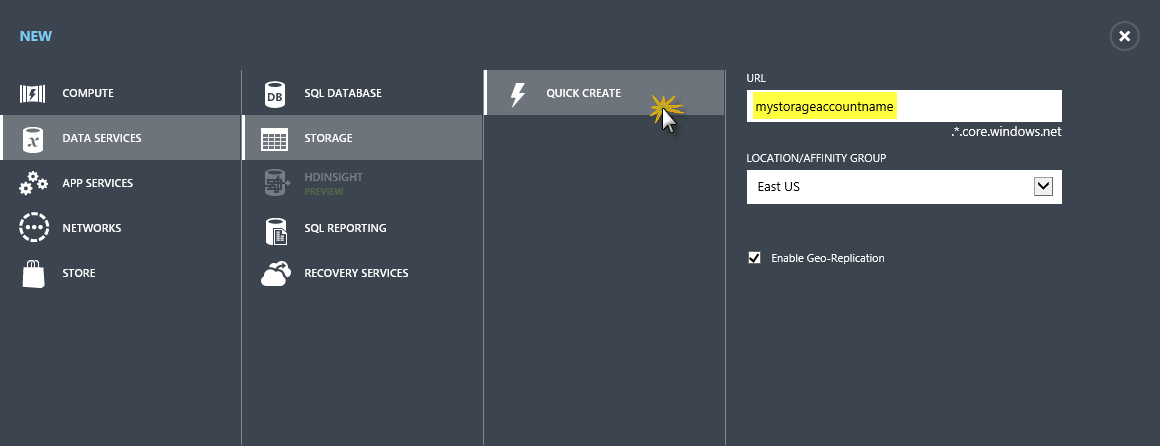
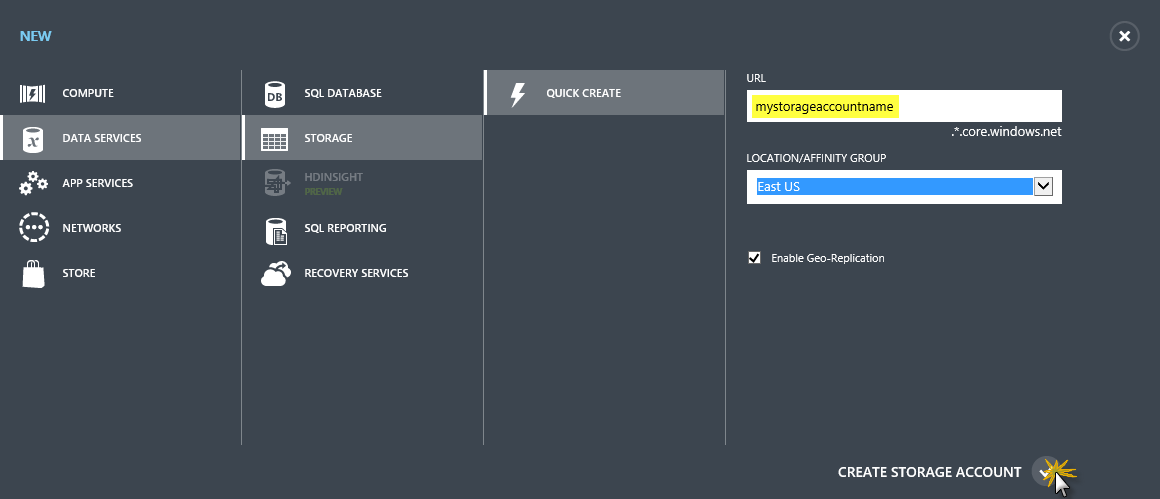
Fixed documentations bugs

diff --git a/HOL.md b/HOL.md
@@ -122,7 +122,7 @@ In this task you will learn how to create a new Storage Account using the Manage
 
 1. Navigate to http://manage.windowsazure.com using a Web browser and sign in using the Microsoft Account associated with your Windows Azure account.
 
-1. In the menu located at the bottom, select **New | Data Services | Storage | Quick Create** to start creating a new Storage Account. Enter a unique name for the account and select a **Region** from the list. Click **OK** to continue.
+1. In the menu located at the bottom, select **New | Data Services | Storage | Quick Create** to start creating a new Storage Account. Enter a unique name for the account and select a **Region** from the list. Click **Create Storage Account** to continue.
 
 	![create-storage-account-menu](Images/create-storage-account-menu.png?raw=true)
 
@@ -163,9 +163,9 @@ In this task you will learn how to create a new Storage Account using the Manage
 
 1. Open **Visual Studio Express 2012 for Web** and open the **AssetsWebSite** solution located in the **Source\Assets\AssetsWebSite\** folder of this lab.
 
-1. Open the view **Index** under the **Views** folder. As you can see in the code, this view displays some Images/ and a video using a HTML5 player. These assets are located within your application and will be deployed with your site in the specified region.
+1. Open the view **Index** under the **Views\Home** folder. As you can see in the code, this view displays some images and a video using a HTML5 player. These assets are located within your application and will be deployed with your site in the specified region.
 
-1. Right-click the **Content** folder and select **Open folder in Windows Explorer**. Take note of the path of the folder.
+1. Right-click the **Content** folder and select **Open folder in File Explorer**. Take note of the path of the folder.
 
 1. Using a Web browser, download https://github.com/downloads/WindowsAzure/azure-sdk-downloads/AzCopy.zip. The **AzCopy** is a tool that allows you to upload files to a blob container. Once downloaded, unzip the file.
 
